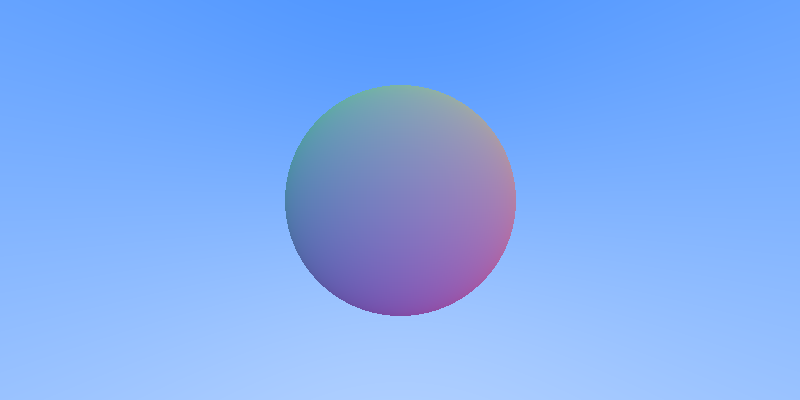
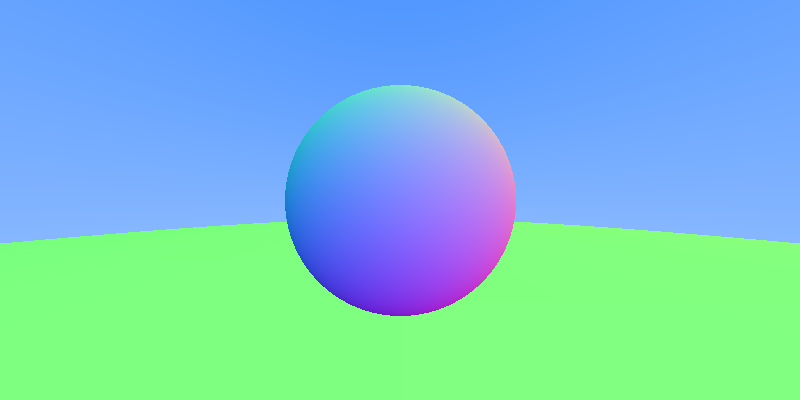
Ch5 - Added HitableList

diff --git a/src/hitable.rs b/src/hitable.rs
@@ -21,3 +21,34 @@ impl HitInfo {
 pub trait Hitable {
     fn try_hit(&self, ray: &Ray, t_min: f64, t_max: f64) -> Option<HitInfo>;
 }
+
+pub struct HitableList {
+    pub list: Vec<Box<Hitable>>,
+}
+
+impl HitableList {
+    pub fn new() -> HitableList {
+        HitableList {
+            list: Vec::new(),
+        }
+    }
+}
+
+impl Hitable for HitableList {
+    fn try_hit(&self, ray: &Ray, t_min: f64, t_max: f64) -> Option<HitInfo> {
+        let mut closest_so_far = t_max;
+        let mut current_result : Option<HitInfo> = None;
+        
+        for hitable in &self.list {
+            match hitable.try_hit(ray, t_min, closest_so_far) {
+                Some(hit) => {
+                    closest_so_far = hit.time;
+                    current_result = Some(hit)
+                }
+                None => {}
+            }
+        }
+
+        current_result
+    }
+}

diff --git a/src/main.rs b/src/main.rs
@@ -85,7 +85,9 @@ fn main() {
     let vertical = Vec3::<f64>::from(0.0, 2.0, 0.0);
     let origin = Vec3::<f64>::from(0.0, 0.0, 0.0);
 
-    let sphere = Sphere::new(Vec3::<f64>::from(0.0,0.0,-1.0), 0.5);
+    let mut world = HitableList::new();
+    world.list.push(Box::new(Sphere::new(Vec3::<f64>::from(0.0,0.0,-1.0), 0.5)));
+    world.list.push(Box::new(Sphere::new(Vec3::<f64>::from(0.0,-100.5,-1.0), 100.0)));
 
     let mut pixel_index = 0;
     for j in 0..config.dimy {
@@ -95,7 +97,7 @@ fn main() {
 
             let dir = lower_left + u * horizontal + v * vertical;
             let ray = Ray::new(origin, dir);
-            let color = get_pixel_color(&ray, &sphere);
+            let color = get_pixel_color(&ray, &world);
             
             let ir = (255.99 * color[0]) as u8;
             let ig = (255.99 * color[1]) as u8;
